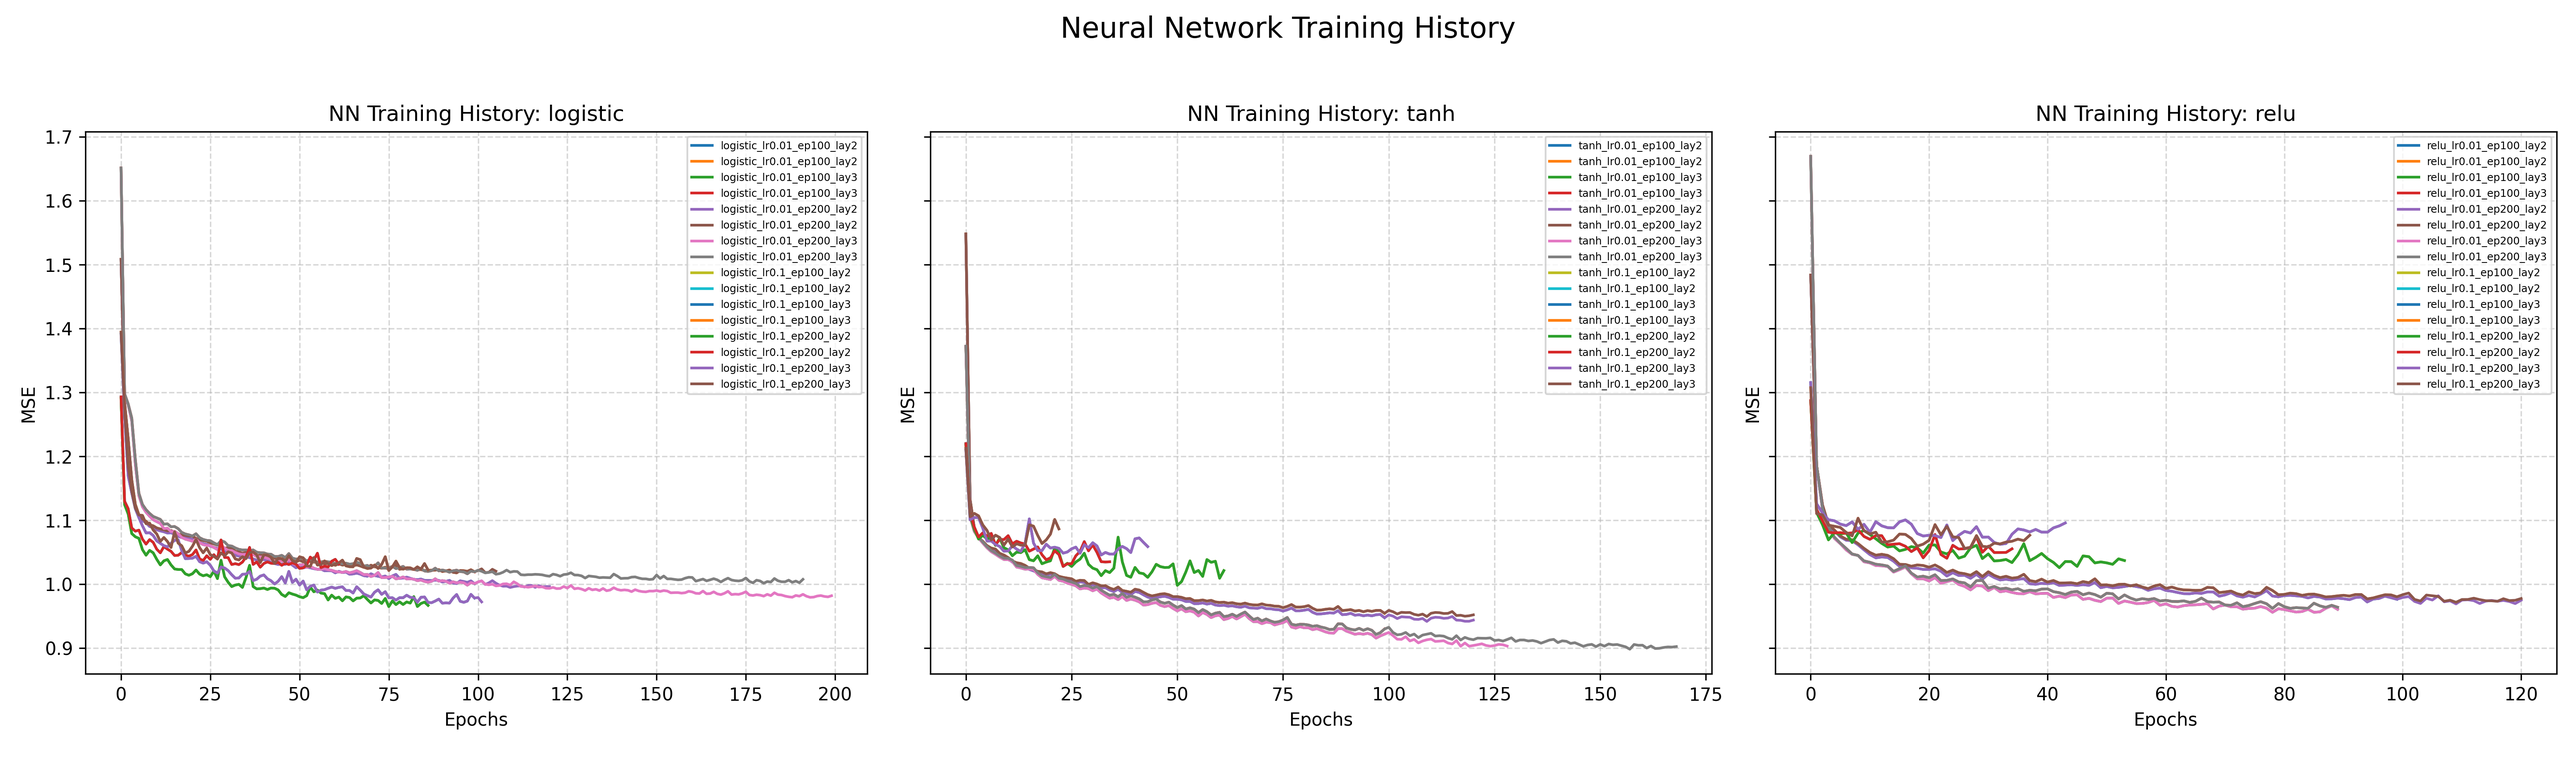
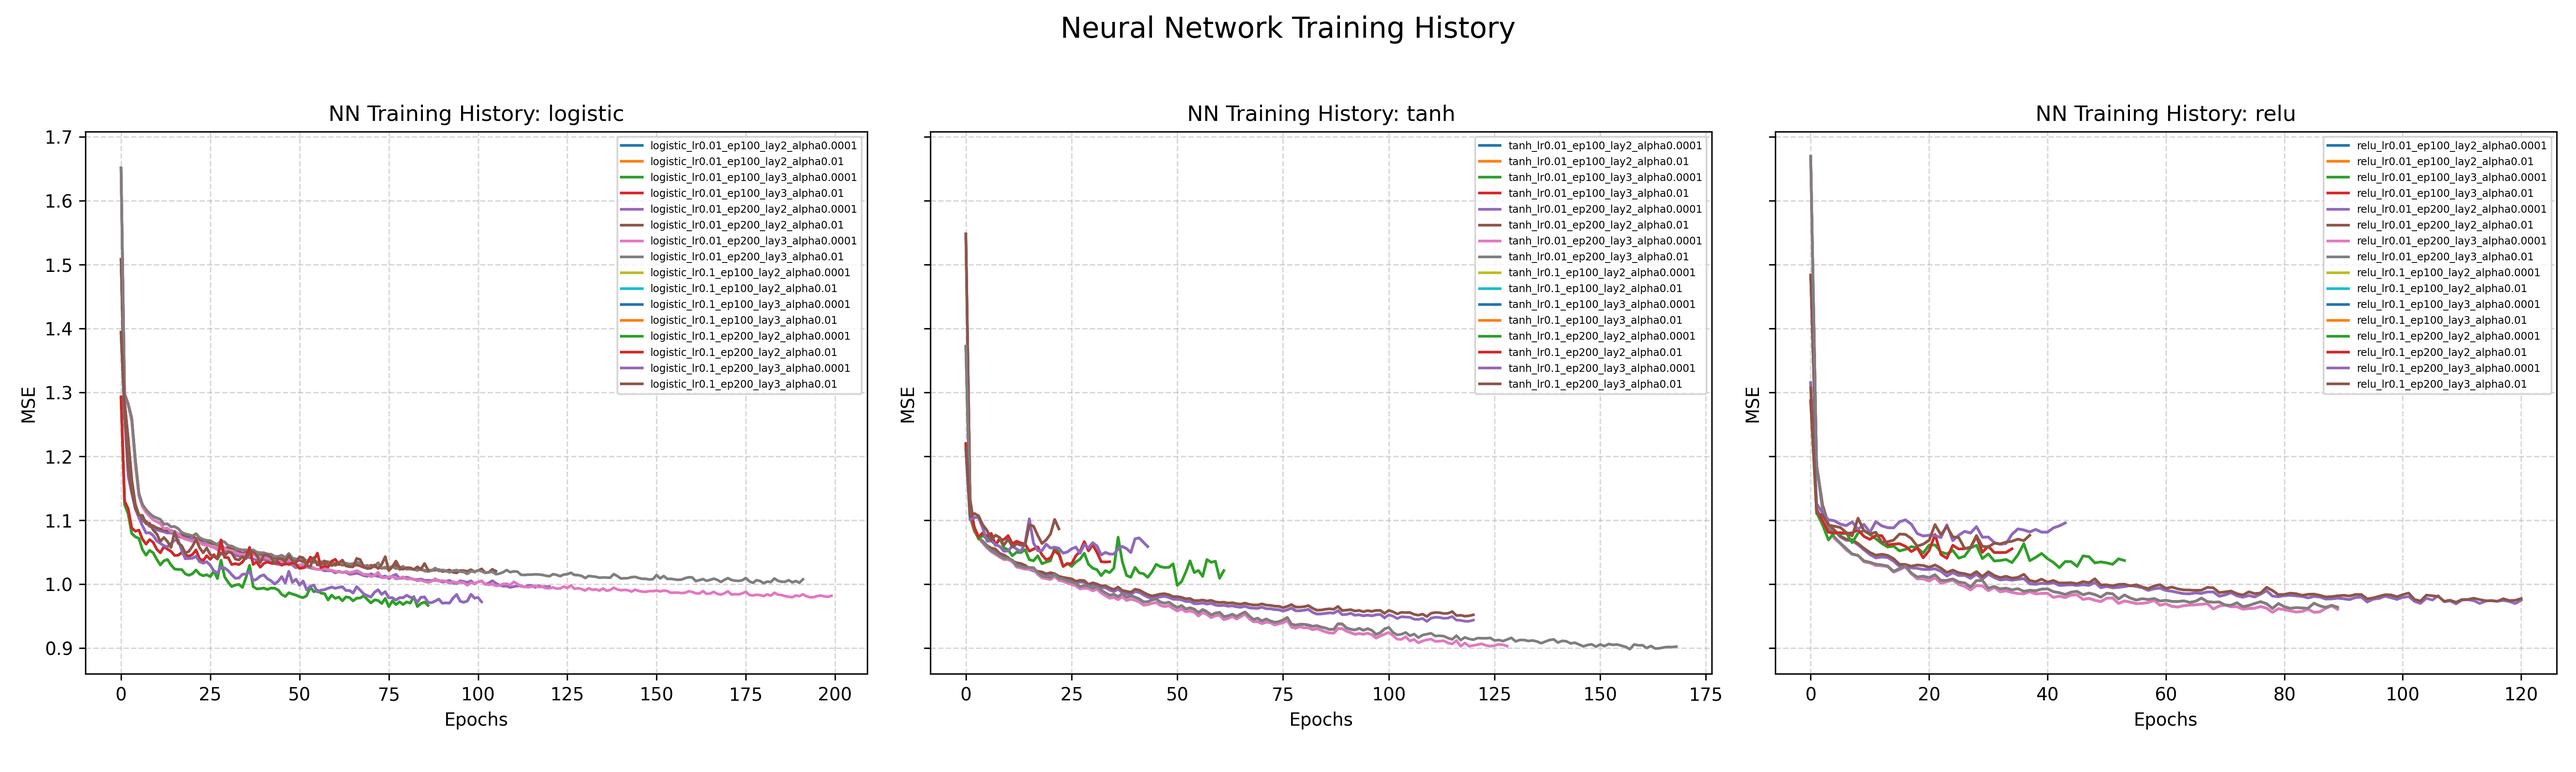
Final comments

Changed region(s): [[0.561, 0.1867, 0.6545, 0.5289], [0.2493, 0.1867, 0.3428, 0.5289], [0.9038, 0.1867, 0.9973, 0.5289]]

diff --git a/NeuralNet.py b/NeuralNet.py
@@ -25,9 +25,7 @@ class NeuralNet:
         self.raw_input = pd.concat([X, y], axis=1)
         self.target_name = y.columns[0]
 
-    # TODO: Write code for pre-processing the dataset, which would include
-    # standardization, normalization,
-    #   categorical to numerical, etc
+    # Preprocess data set with standardization and label encoding
     def preprocess(self):
         # Handle null and duplicates, helping on stability
         dframe = self.raw_input.fillna(self.raw_input.mean())
@@ -47,13 +45,7 @@ class NeuralNet:
 
         return self.X_processed, self.y_processed
 
-    # TODO: Train and evaluate models for all combinations of parameters
-    # specified in the init method. We would like to obtain following outputs:
-    #   1. Training Accuracy and Error (Loss) for every model
-    #   2. Test Accuracy and Error (Loss) for every model
-    #   3. History Curve (Plot of Accuracy against training steps) for all
-    #       the models in a single plot. The plot should be color coded i.e.
-    #       different color for each model
+    # Train and evaluate all possible models, keep track of training/test accurcy and errors, and a history curve plot
 
     def train_evaluate(self):
         # Train test split (80/20), create directories to save logs and graphs
@@ -99,7 +91,7 @@ class NeuralNet:
                             mse_train = mean_squared_error(y_train, predict_train)
                             mse_test = mean_squared_error(y_test, predict_test)
 
-                            title = f"{i}_lr{j}_ep{k}_lay{l}"
+                            title = f"{i}_lr{j}_ep{k}_lay{l}_alpha{alp}"
                             results.append({
                                 "Activation": i,
                                 "Label": title,
@@ -115,10 +107,7 @@ class NeuralNet:
                             # Plotting loss over time
                             ax.plot(mlpClass.loss_curve_, label=title)
 
-            # Plot the model history for each model in a single plot
-            # model history is a plot of accuracy vs number of epochs
-            # you may want to create a large sized plot to show multiple lines
-            # in a same figure.
+            # Create a plot for each activation function, modeling loss history for every respective activation model
             ax.set_title(f"NN Training History: {i}")
             ax.set_xlabel("Epochs")
             ax.set_ylabel("MSE")
@@ -133,6 +122,7 @@ class NeuralNet:
         plotting = os.path.join("plots", "nn_training_history.png")
         plt.savefig(plotting, dpi=300)
         
+        # Create a general history loss plot for all 3 activations (48 models)
         plt.figure(figsize=(12, 8))
         for r in results:
             plt.plot(r["Loss History"], label = r["Label"], linewidth=0.7, alpha=0.6)
@@ -155,11 +145,13 @@ class NeuralNet:
         best_test = dframe_results.loc[dframe_results['Test Accuracy'].idxmax()]
         worst_test = dframe_results.loc[dframe_results['Test Accuracy'].idxmin()]
         
+        # Get rid of Loss History as it messes up the table (need to plot only), store table in results.csv
         cleaned_dframe = dframe_results.drop(columns='Loss History')
         
         logging = os.path.join("logs", "results.csv")
         cleaned_dframe.to_csv(logging, index=False)
 
+        # Create an additional file logging performance metrics
         metrics = os.path.join("logs", "metrics.txt")
         with open(metrics, "w") as f:
             f.write("Average Test Accuracy per Activation: ")
